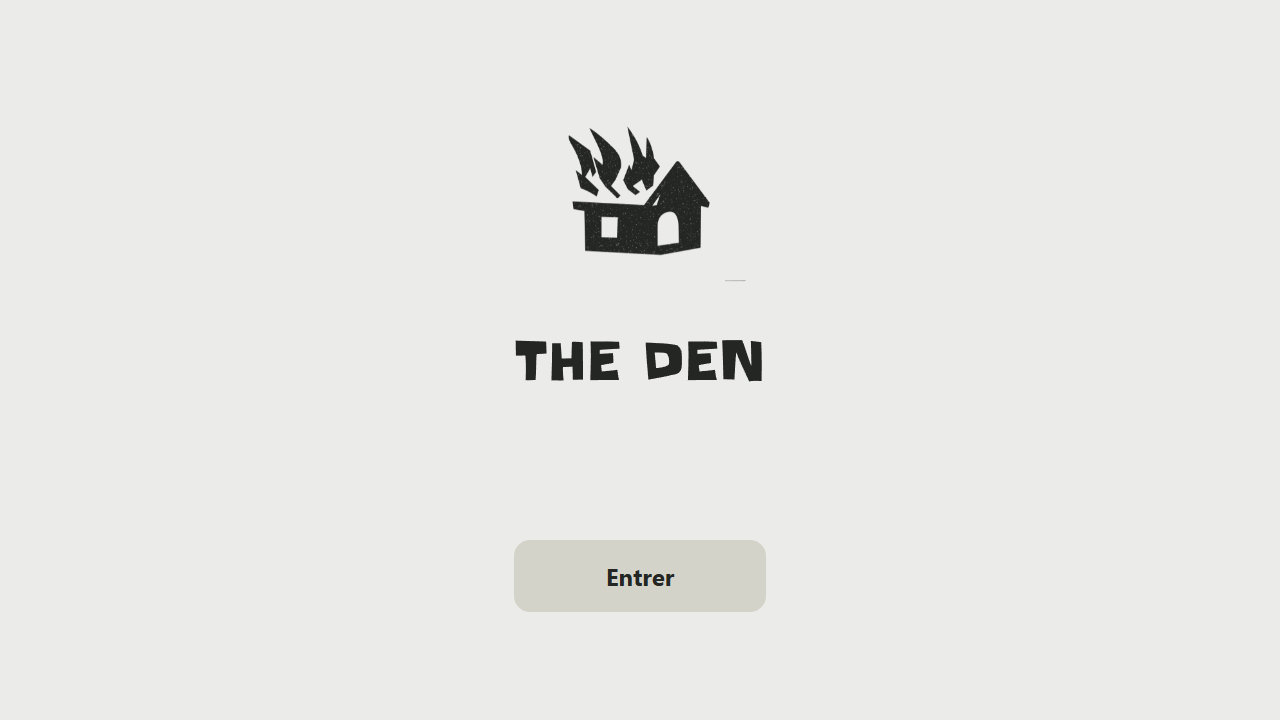
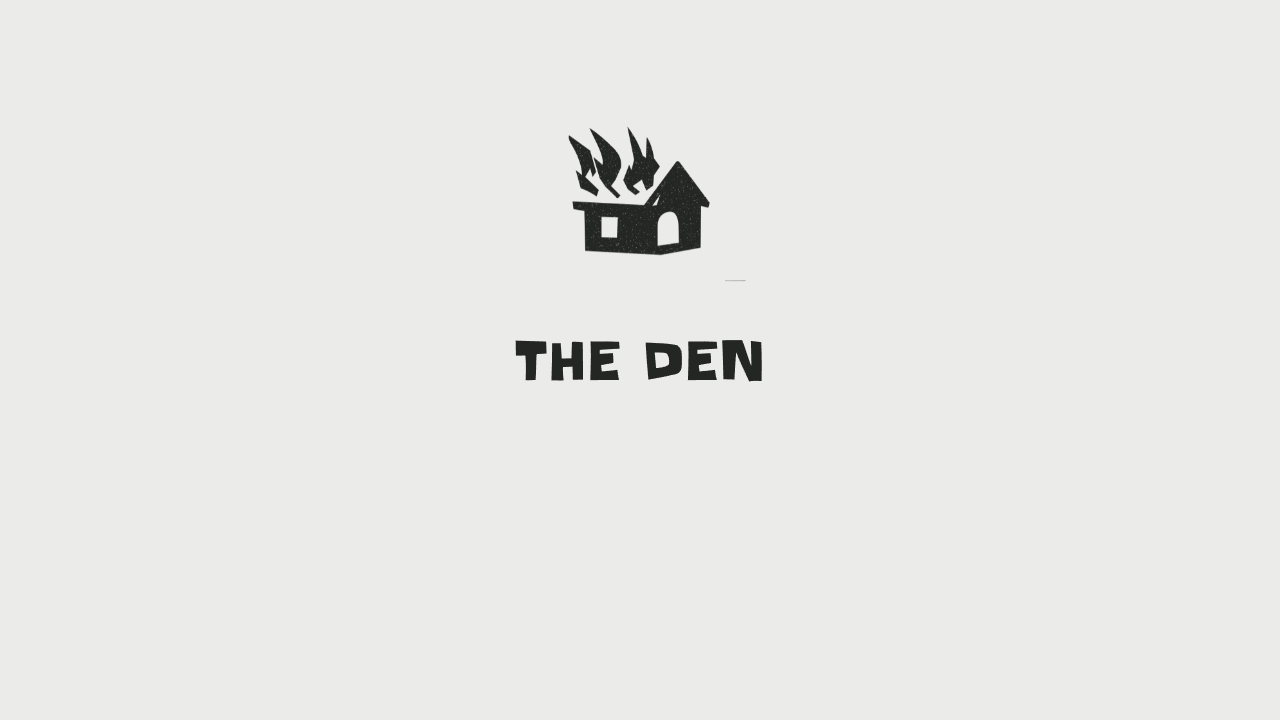
Make the animated house the entrance to The Den

Changed region(s): [[0.375, 0.7333, 0.625, 0.8556]]

diff --git a/src/app/opening.module.css b/src/app/opening.module.css
@@ -227,3 +227,48 @@
   .inkSweep { display: none; }
 }
 :global([data-still="1"]) .inkSweep { display: none; }
+
+/* The house itself is the entrance. Short bursts evoke the kitchen rush. */
+.entry a.signature {
+  display: block;
+  border-radius: 16px;
+  cursor: pointer;
+  transition: transform 180ms cubic-bezier(.2, 0, 0, 1);
+  min-width: 72px;
+  min-height: 72px;
+  -webkit-tap-highlight-color: transparent;
+}
+.entry a.signature:hover { transform: translateY(-3px); }
+.entry a.signature:active { transform: translateY(1px) scale(.97); }
+.signature:focus-visible { outline: var(--focus); outline-offset: 16px; }
+.signature:focus-visible .inkSweep { display: none; }
+.signature .houseFlames {
+  animation: lightFlames 1000ms 180ms cubic-bezier(.16, 1, .3, 1) both,
+    kitchenRush 360ms 1180ms 4 alternate ease-in-out;
+}
+.steam {
+  position: absolute;
+  left: 42%;
+  top: 2%;
+  width: 16%;
+  height: 20%;
+  border-left: 2px solid var(--ink);
+  border-radius: 50%;
+  opacity: 0;
+  pointer-events: none;
+  animation: risingSteam 1100ms 1000ms 2 ease-out;
+}
+@keyframes kitchenRush {
+  from { transform: rotate(-1.5deg) scaleY(.98); }
+  to { transform: rotate(1.5deg) scaleY(1.025); }
+}
+@keyframes risingSteam {
+  0% { opacity: 0; transform: translateY(0) scale(.7); }
+  25% { opacity: .18; }
+  100% { opacity: 0; transform: translateY(-32px) scale(1.3); }
+}
+@media (prefers-reduced-motion: reduce) {
+  .signature .houseFlames, .steam { animation: none; }
+  .entry a.signature { transition: none; }
+  .entry a.signature:hover, .entry a.signature:active { transform: none; }
+}

diff --git a/src/app/page.jsx b/src/app/page.jsx
@@ -13,15 +13,12 @@ export default async function Opening({ searchParams }) {
   const error = errors[(await searchParams).error];
   return (
     <main className={styles.entry}>
-      <div className={styles.signature} aria-hidden="true">
+      <a className={styles.signature} href="/player" aria-label="Entrer dans The Den">
   <img className={styles.houseBody} src="/brand/the-den-house.png" alt="" />
   <img className={styles.houseFlames} src="/brand/the-den-house.png" alt="" />
-  <span className={styles.inkSweep} />
-</div>
+  <span className={styles.inkSweep} aria-hidden="true" /><span className={styles.steam} aria-hidden="true" />
+</a>
       <h1 className={styles.wordmark}><img src="/den-2.svg" alt="The Den" width="300" height="75"/></h1>
-      <a className={styles.entryButton} href="/player">
-        Entrer
-      </a>
       {error && (
         <p role="alert">
           {error} <a href="/profil">Profil</a>
@@ -30,5 +27,7 @@ export default async function Opening({ searchParams }) {
     </main>
   );
 }
+
+
 
 
